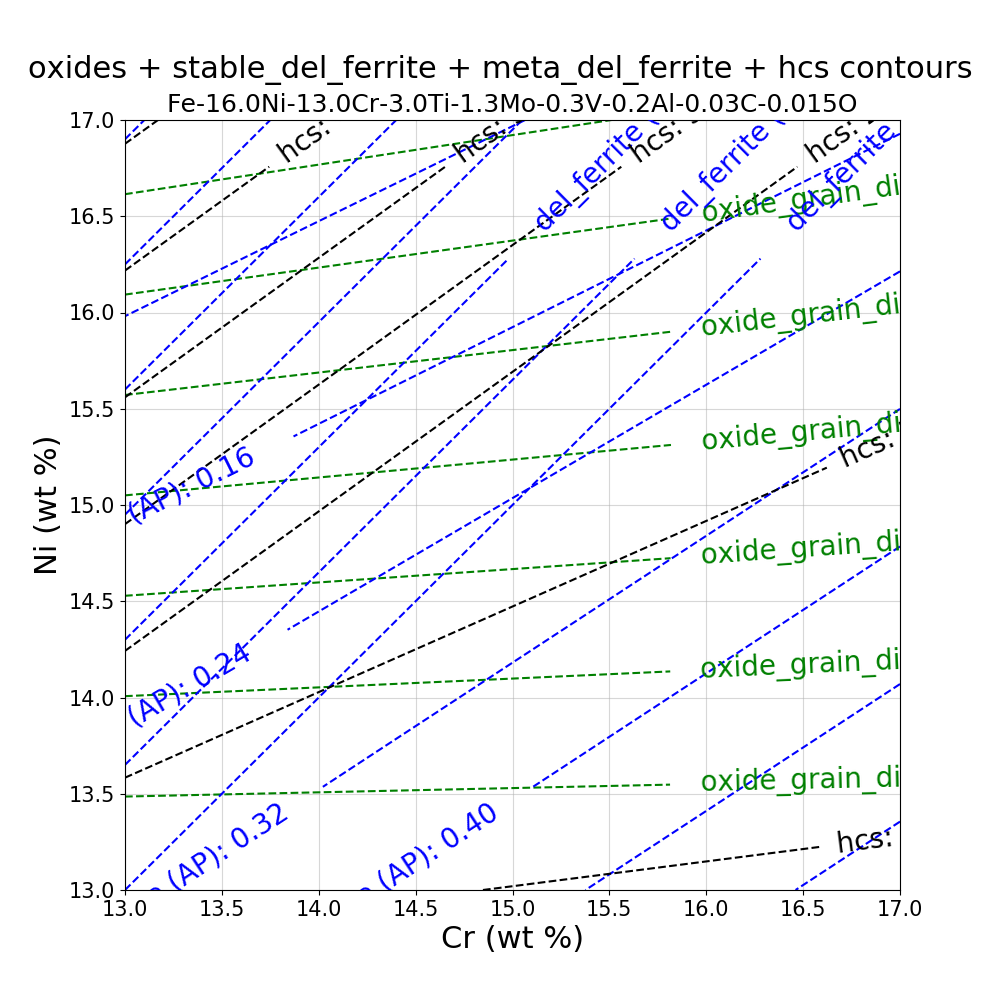
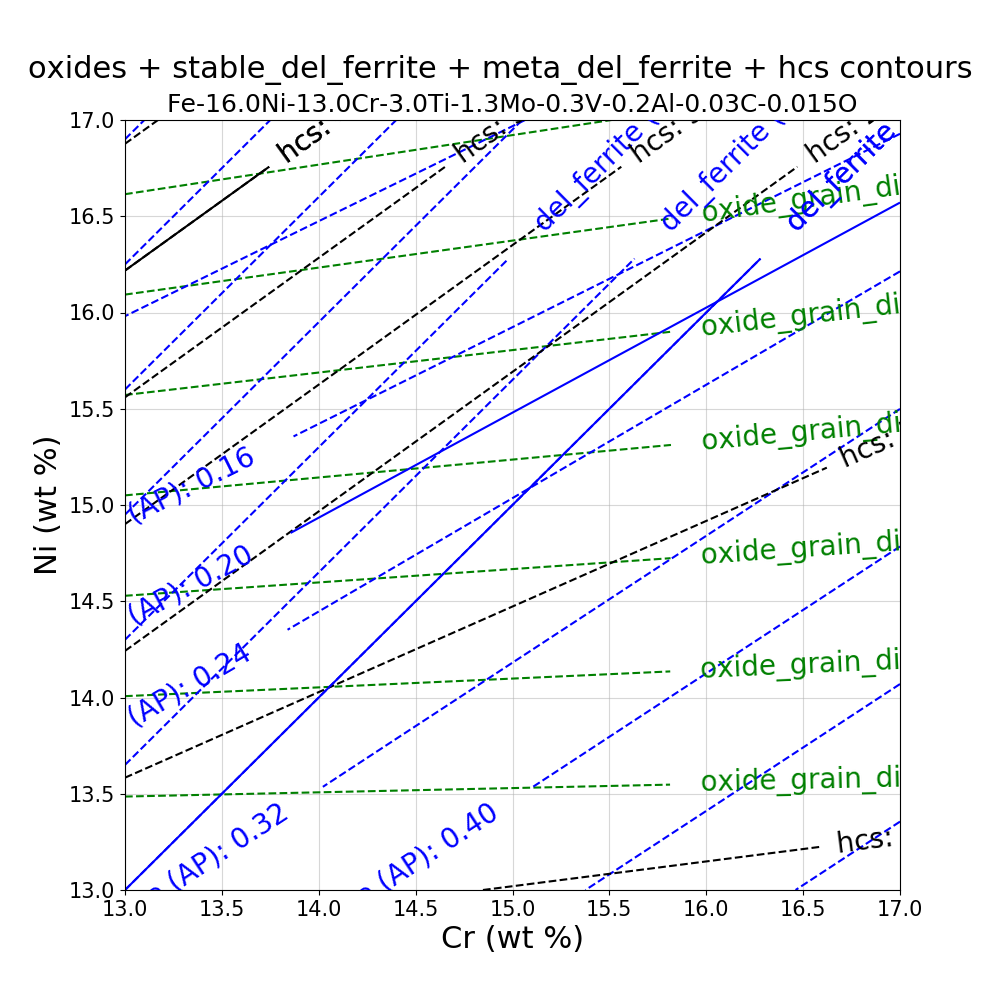
target values can be specified on plots too

diff --git a/plotting_lib.py b/plotting_lib.py
@@ -201,7 +201,7 @@ def load_and_use(composition0, tests, element1={}, element2={}, temps={}):
     return data
 
 # Plotter
-def plotter(composition0, tests, element1, element2, temps, manual=False):
+def plotter(composition0, tests, element1, element2, temps, targets={}, manual=False):
     """
     Calls our data generator/loader
     Unpacks all of our data
@@ -322,14 +322,27 @@ def plotter(composition0, tests, element1, element2, temps, manual=False):
     def contoured_target(test, value):
         """
         Conotour at a single point with a specified target value
-        ADD
         """
-        pass
+        # legible font
+        contour_font = 20
+
+        # hcs is not a listed calc, but is a function of two listed calcs, check for it (this is definitely slow and should likely be fixed in the TC_lib)
+        if test == "hcs":
+            Z = hcs(data['fr'], data['csc'])
+        else:
+            Z = data[test]
+        
+        # actually generate and plot the contour
+        contour = ax.contour(X, Y, Z, colors=color_dict[test], levels=[value], linestyles='solid')
+        fmt = fmt_dict[test]
+        ax.clabel(contour, inline=True, fontsize=contour_font, fmt=fmt, manual=manual)
 
     # plot all of the contours
     for test in tests:
         contoured(test)
 
+    for target in targets:
+        contoured_target(target, targets[target])
     # Format the rest of the plot
 
     # legible font sizes for a ppt
@@ -354,7 +367,7 @@ def plotter(composition0, tests, element1, element2, temps, manual=False):
     fig.show() 
 
 # Runner 
-def run(composition0, tests, dependent_element, element1={}, element2={}, temps={}, manual=False, overwrite=False, disp=False):
+def run(composition0, tests, dependent_element, element1={}, element2={}, temps={}, manual=False, overwrite=False, disp=False, targets={}):
     """
     ADD MORE
     To be called in run.py
@@ -425,6 +438,6 @@ def run(composition0, tests, dependent_element, element1={}, element2={}, temps=
         return None
     
     # else plot the stuff
-    plotter(composition0, tests, element1, element2, temps, manual=manual)
+    plotter(composition0, tests, element1, element2, temps, targets=targets, manual=manual)
     return None
  

diff --git a/run.py b/run.py
@@ -62,6 +62,14 @@ I didn't include them in the github repo bc I am very unclear on the copyright o
 """
 tests = ["oxides", "stable_del_ferrite", "meta_del_ferrite", "hcs", ]
 
+target_values = {
+    "oxides" : 2.75e-5,
+    "stable_del_ferrite" : 0,
+    "meta_del_ferrite" : 0.2,
+    "hcs" : 4
+}
+
+
 # If you need to overwrite exisiting data
 overwrite = False 
 
@@ -76,7 +84,7 @@ disp = False
 
 # run your test(s, comment out as needed)!
 # for a matrix of compositions:
-run(composition, tests, dependent_element, element1=el1, element2=el2, temps=temps, manual=manual, overwrite=overwrite)
+run(composition, tests, dependent_element, element1=el1, element2=el2, temps=temps, manual=manual, overwrite=overwrite, targets=target_values)
 
 # for a single point:
 # run(composition, tests, dependent_element, temps=temps, manual=manual, overwrite=overwrite, disp=disp)
